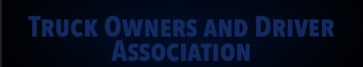
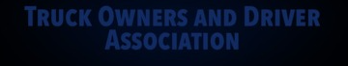
Swap main title heading image for the new client PNG.

diff --git a/src/components/GlobeChrome.jsx b/src/components/GlobeChrome.jsx
@@ -38,8 +38,8 @@ export default function GlobeChrome() {
               src="/images/toda-title.png"
               alt="Truck Owners and Driver Association"
               className="toda-title-img mx-auto block w-[min(94vw,22.5rem)] h-auto"
-              width={363}
-              height={67}
+              width={348}
+              height={66}
               draggable={false}
             />
           </h1>